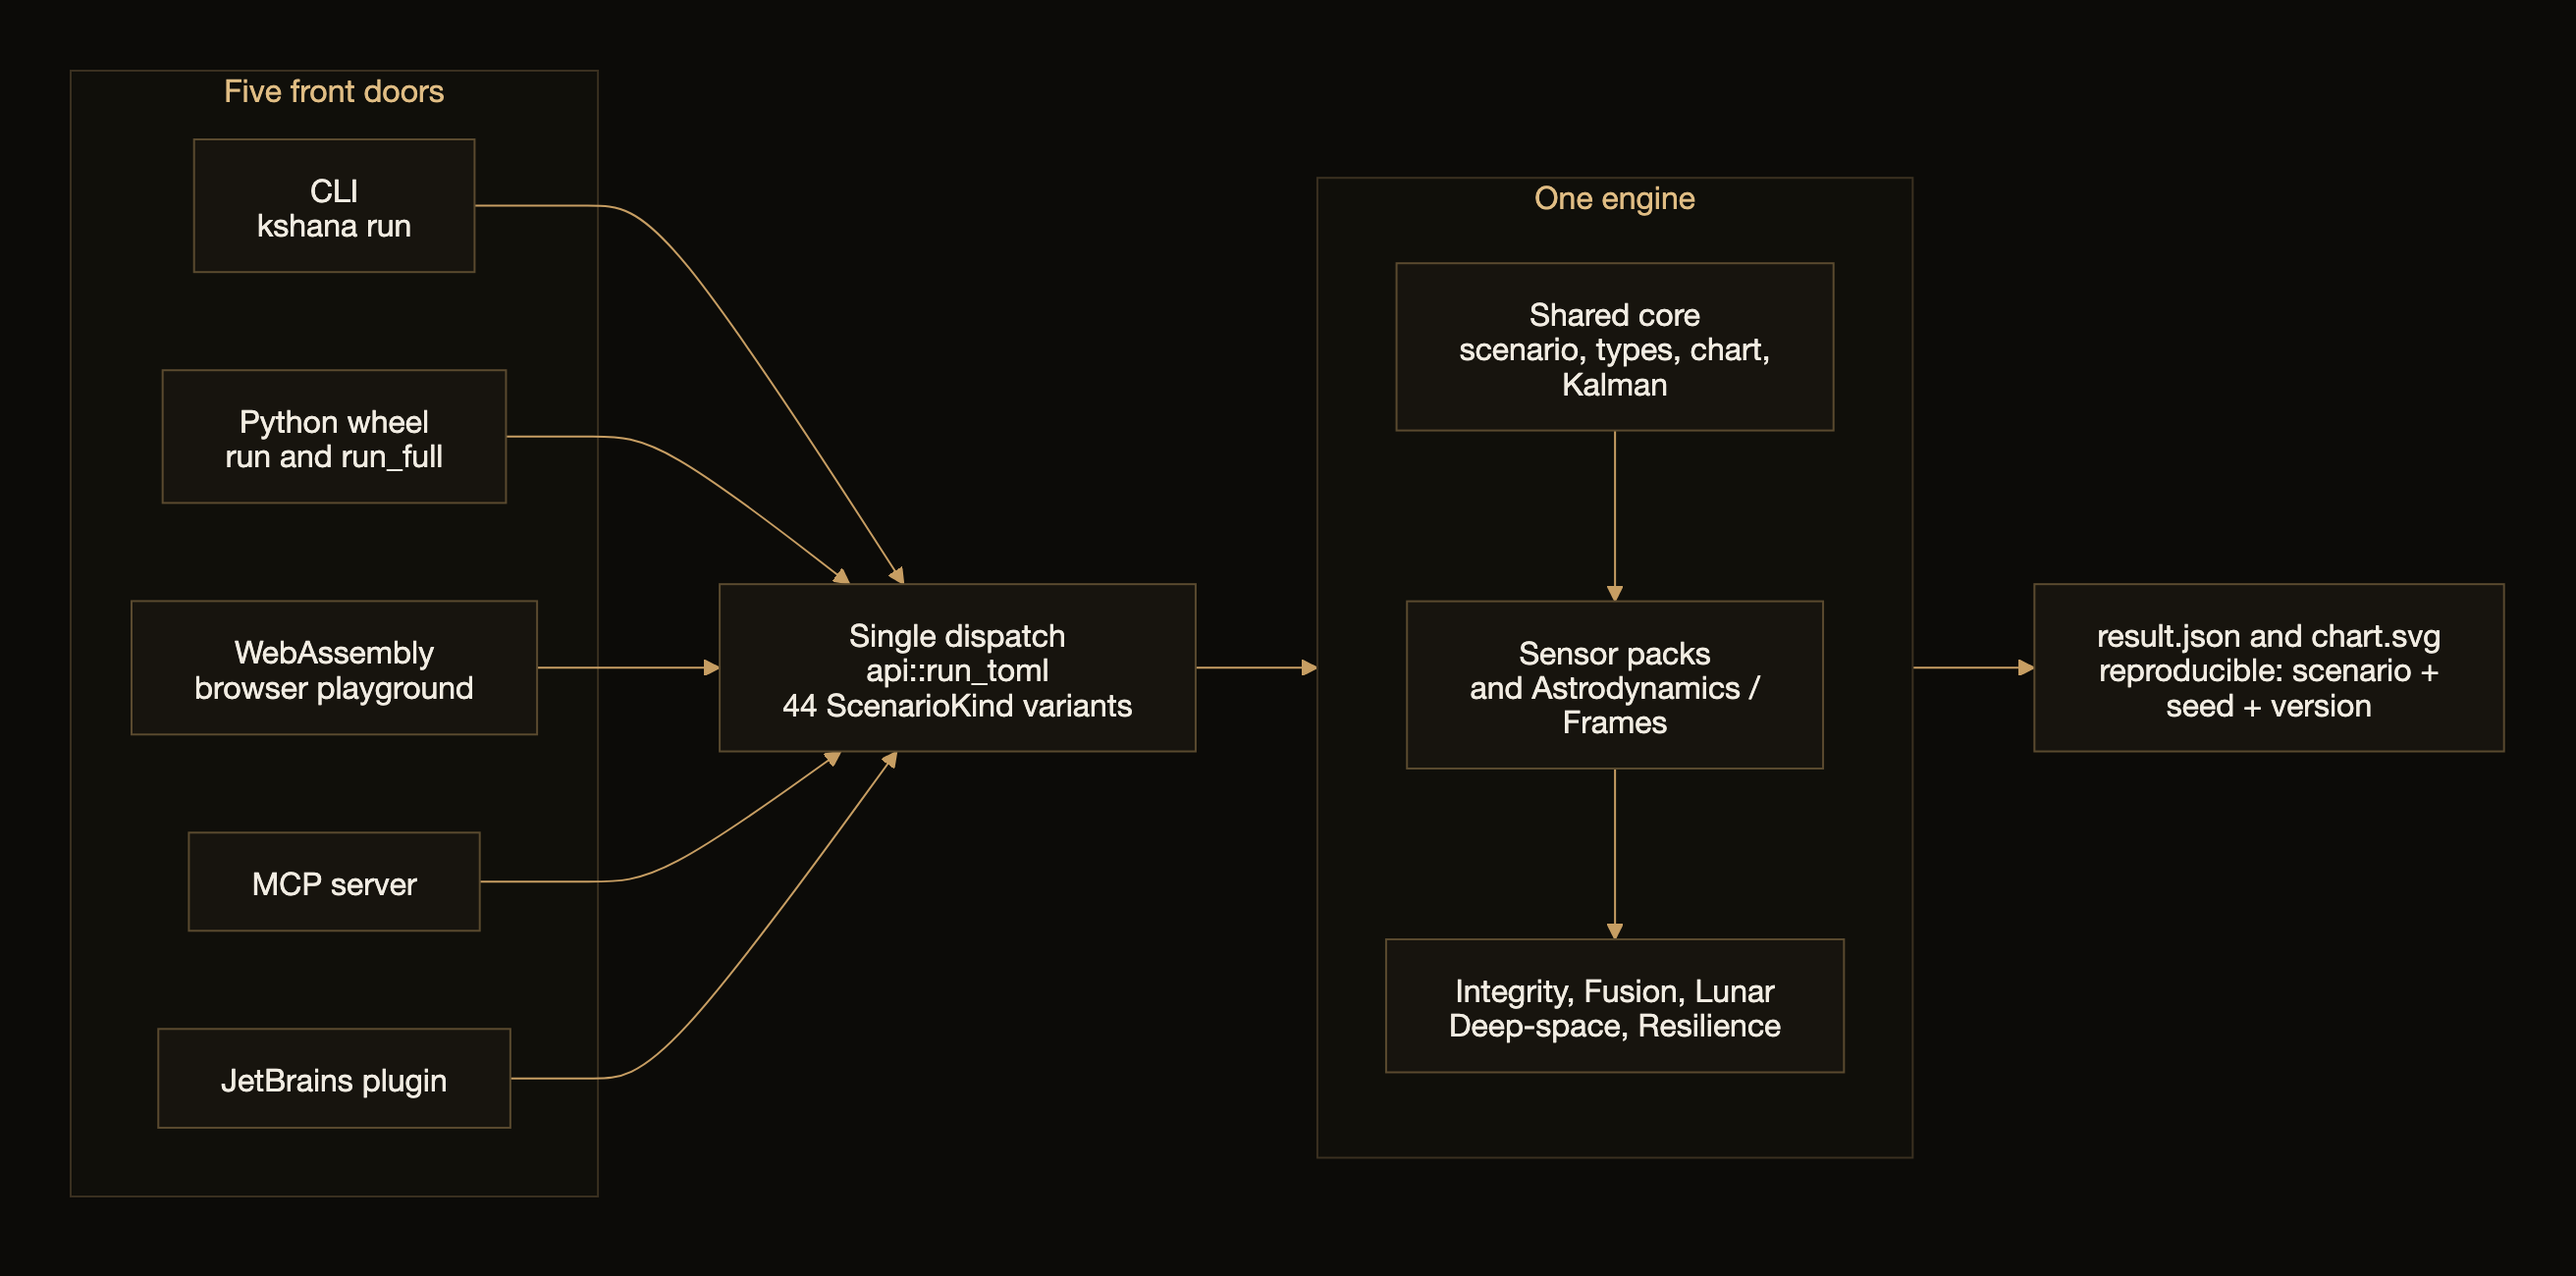
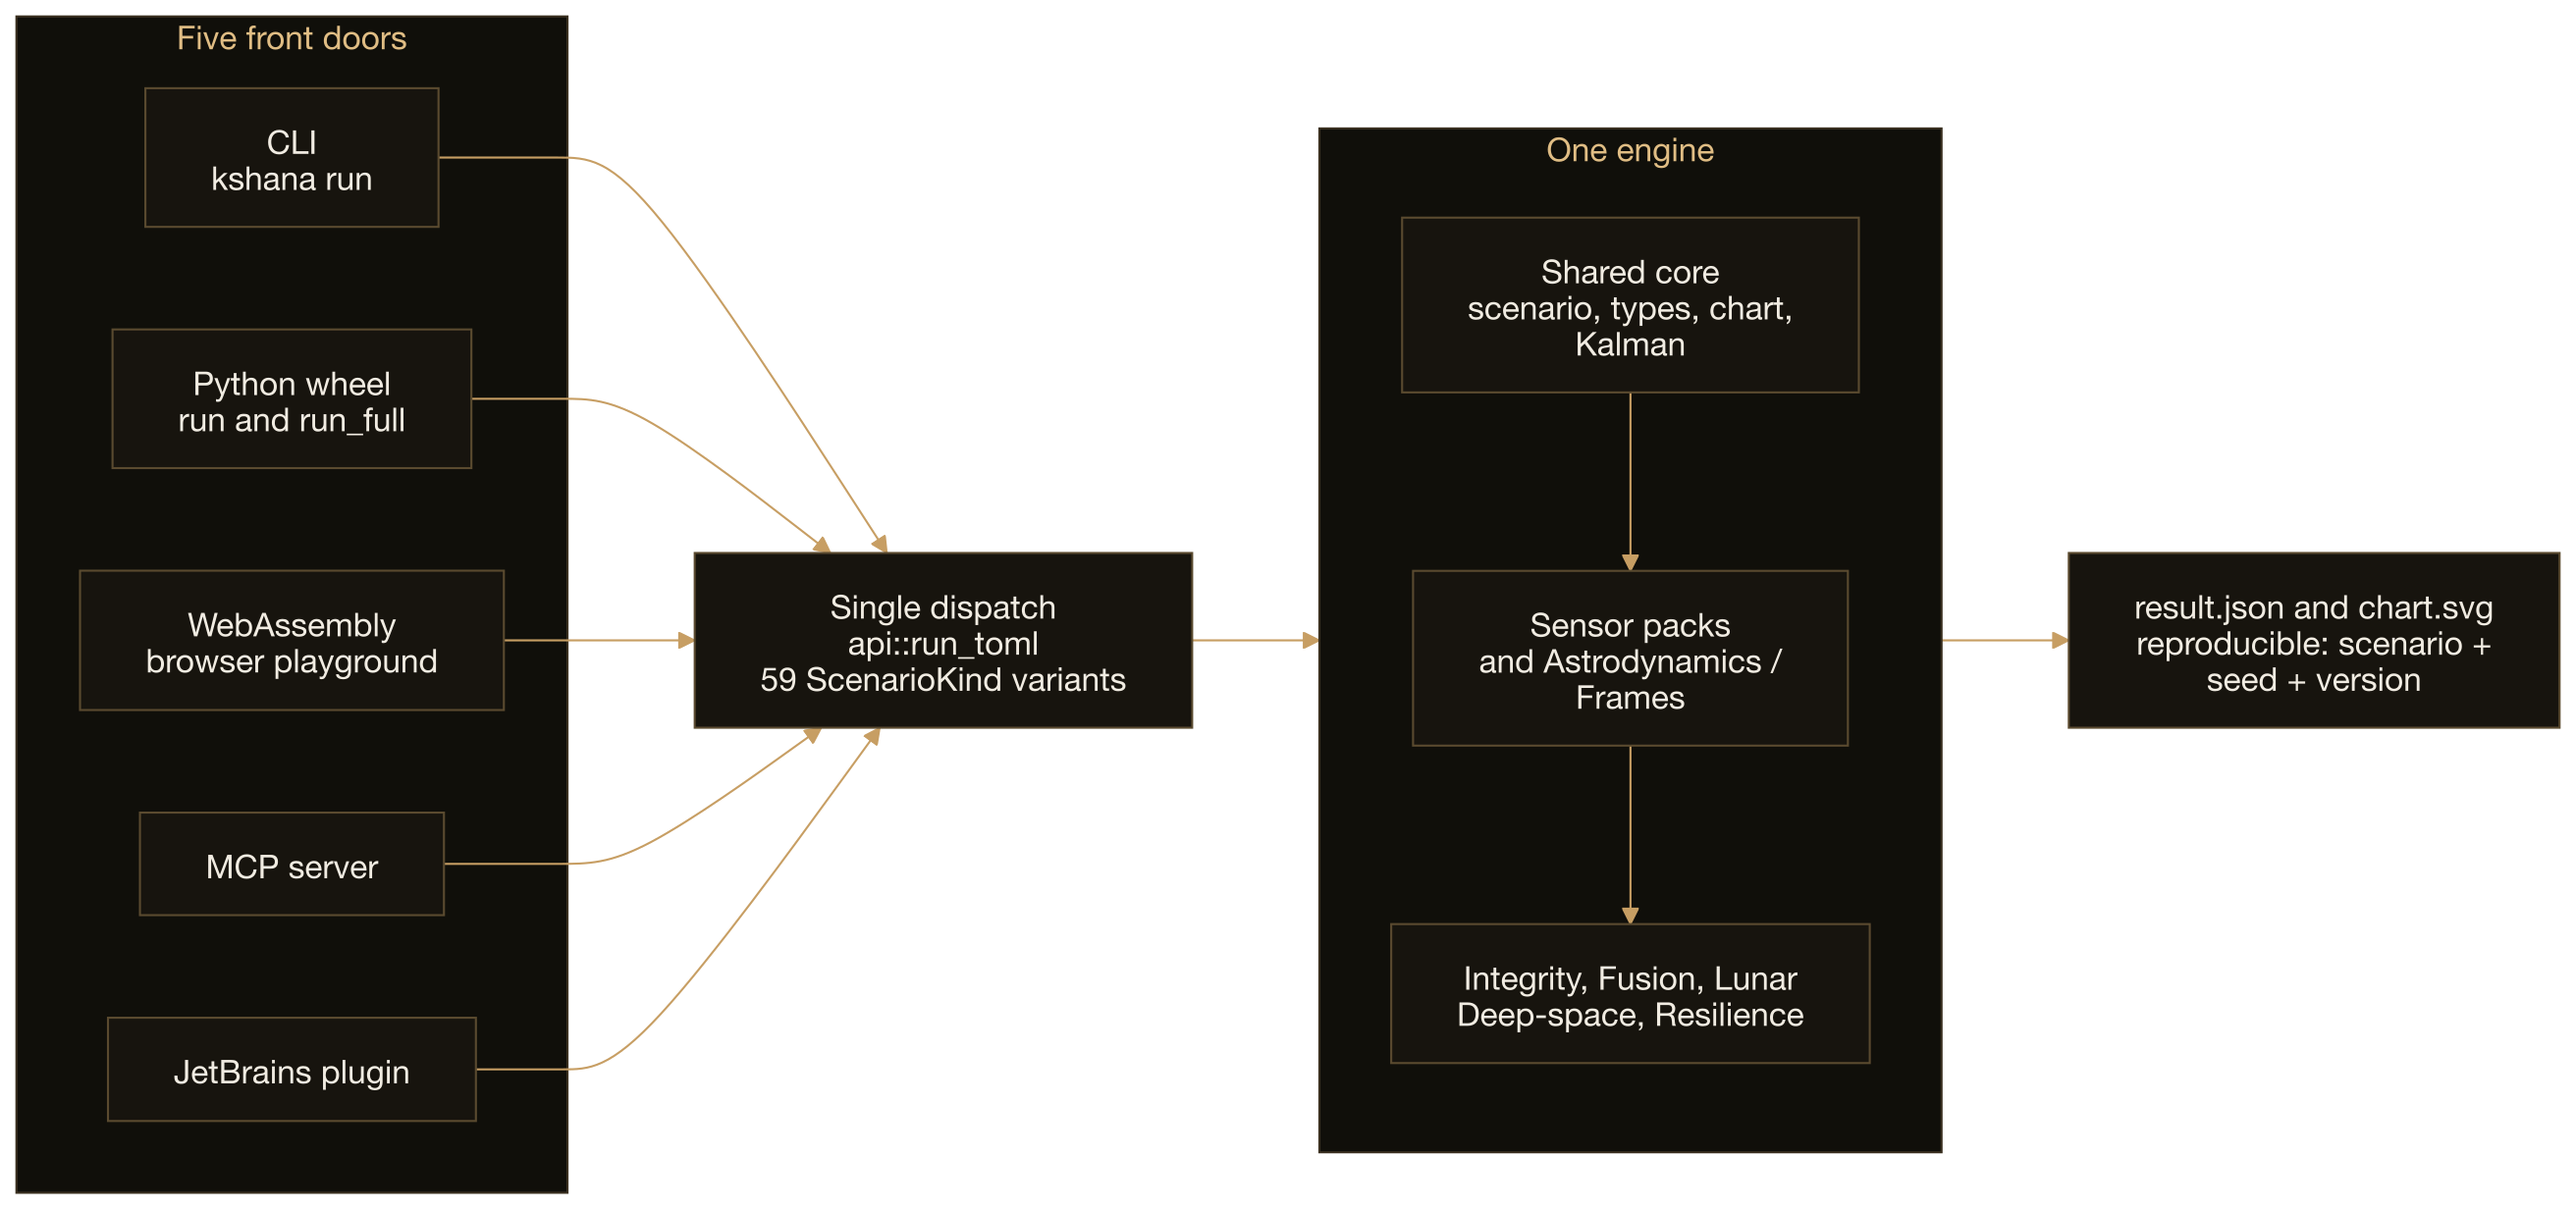
fix(docs): the hero diagram's scenario count, and the alt-text no guard listed
The system-overview diagram at the top of README.md states "44 ScenarioKind
variants". Its own alt text, forty lines away in the same file, says 50. The
dispatcher exposes 59. Three numbers for one quantity, while all three guarded
sites read 59 and stayed green for two months.

The guard said so itself and nobody read it back: scenario_count_doc_sync.rs
opens "The README states the number of dispatchable scenario kinds in three
places. Two of them are digit-form" -- it pinned those two plus ARCHITECTURE.md
and left the third, which was the alt attribute.

Two more of the same shape turned up in the same sweep:

  - the oracle-kind figure's alt reads "56 of 56 ExternalDataset" while the
    figure beside it, which is regenerated from the matrix, draws 59 of 59. The
    picture moved; its description did not.
  - mcp/kshana-mcp/README.md, which ships to users, reads 50.

An alt attribute is a published surface. A screen reader reads it aloud, an
indexer indexes it, and it is the only text a reader gets when the image does
not load. All three are pinned now, alongside the prose.

A count inside a rendered image cannot be pinned at all, which is the part that
needed a mechanism rather than an edit. Three layers:

  - the diagram's Mermaid source (docs/diagrams/system-overview.mmd) and the
    rendered SVG's text content are both asserted against list_scenario_kinds();
  - docs/assets/diagrams/rendered-from.json binds each PNG to the SHA-256 of the
[…]

diff --git a/tests/scenario_count_doc_sync.rs b/tests/scenario_count_doc_sync.rs
@@ -45,3 +45,173 @@ fn readme_dispatch_counts_match_the_api() {
          Update the `ScenarioKind::classify … N kinds` node in the §4 dispatch diagram."
     );
 }
+
+/// The count above was pinned in three places. This test exists because that was not all
+/// of them, and the docstring at the top of this file said so out loud — "the README
+/// states the number ... in three places. **Two** of them are digit-form" — and then
+/// pinned only those two plus the architecture doc. The unpinned places had drifted:
+///
+/// | surface | said | truth |
+/// |---|---|---|
+/// | `docs/diagrams/system-overview.mmd` (the hero diagram's SOURCE) | 44 | 59 |
+/// | `docs/assets/diagrams/system-overview.svg` / `.png` (the rendered hero image) | 44 | 59 |
+/// | `README.md` hero-image `alt` text | 50 | 59 |
+/// | `mcp/kshana-mcp/README.md` (the published MCP-server README) | 50 | 59 |
+///
+/// Three different numbers for one quantity, across two artefacts and two alt-texts,
+/// while every guarded site stayed green. Two lessons are encoded here. First, an `alt`
+/// attribute is a published surface — a screen reader reads it aloud, an indexer indexes
+/// it, and it is the only text a reader gets when the image does not load — so it is
+/// pinned exactly like prose. Second, a count inside a *rendered image* cannot be read by
+/// a test at all; the defence is to pin the image's text SOURCE (the `.mmd`) and the
+/// rendered SVG's text content, and to bind the PNG to the SVG it came from (see
+/// `each_rendered_png_was_rendered_from_the_committed_svg`).
+#[test]
+fn every_scenario_count_surface_matches_the_dispatcher() {
+    let n = kshana::api::list_scenario_kinds().len();
+
+    let readme = include_str!("../README.md");
+    let mmd = include_str!("../docs/diagrams/system-overview.mmd");
+    let svg = include_str!("../docs/assets/diagrams/system-overview.svg");
+    let mcp = include_str!("../mcp/kshana-mcp/README.md");
+    let scenarios = include_str!("../docs/SCENARIOS.md");
+
+    // The SVG splits a label across one <tspan> per word, so the count and the words after
+    // it are in different elements. Strip the markup and search the concatenated text.
+    let svg_text = strip_xml_tags(svg);
+
+    let checks: Vec<(&str, &str, String)> = vec![
+        (
+            "README.md (hero-image alt text)",
+            readme,
+            format!("api::run_toml dispatch over {n} scenario kinds"),
+        ),
+        (
+            "docs/diagrams/system-overview.mmd (the diagram's source)",
+            mmd,
+            format!("{n} ScenarioKind variants"),
+        ),
+        (
+            "docs/assets/diagrams/system-overview.svg (rendered hero diagram)",
+            &svg_text,
+            format!("{n} ScenarioKind variants"),
+        ),
+        (
+            "mcp/kshana-mcp/README.md (published MCP server README)",
+            mcp,
+            format!("The {n} built-in scenario kinds with descriptions"),
+        ),
+        (
+            "docs/SCENARIOS.md (generated reference header)",
+            scenarios,
+            format!("The {n} built-in scenario kinds that"),
+        ),
+    ];
+
+    let stale: Vec<String> = checks
+        .iter()
+        .filter(|(_, body, expected)| !body.contains(expected.as_str()))
+        .map(|(name, _, expected)| format!("  {name}: expected substring {expected:?}"))
+        .collect();
+
+    assert!(
+        stale.is_empty(),
+        "Scenario-kind counts are out of sync with api::list_scenario_kinds() (= {n}). \
+         Update each listed site. If the hero diagram is one of them, edit \
+         docs/diagrams/system-overview.mmd and then re-render with \
+         `tools/render-diagram.sh system-overview`, which rewrites the SVG's count, the \
+         PNG, and the render record in one step:\n{}",
+        stale.join("\n")
+    );
+}
+
+/// A PNG cannot be text-searched, so the count inside the hero diagram is guarded one
+/// step back: the SVG's text is pinned by the test above, and this test binds the PNG to
+/// the exact SVG bytes it was rendered from. Editing an SVG and forgetting to re-render
+/// its PNG — the failure that let the README's hero image show `44` while its own SVG
+/// source was being corrected — is then a build failure rather than a silent mismatch
+/// between the picture and the page around it.
+///
+/// `tools/render-diagram.sh` re-renders a PNG and updates the record together, so the two
+/// cannot drift apart by hand.
+#[test]
+fn each_rendered_png_was_rendered_from_the_committed_svg() {
+    use std::path::Path;
+
+    let root = Path::new(env!("CARGO_MANIFEST_DIR"));
+    let record_path = root.join("docs/assets/diagrams/rendered-from.json");
+    let record: serde_json::Value =
+        serde_json::from_str(&std::fs::read_to_string(&record_path).expect("render record"))
+            .expect("render record is valid JSON");
+
+    let entries = record["rendered"]
+        .as_object()
+        .expect("`rendered` object in the render record");
+    assert!(
+        !entries.is_empty(),
+        "the render record lists no diagrams; it must cover every PNG in docs/assets/diagrams"
+    );
+
+    // Every PNG in the directory must be covered — a new diagram cannot opt out by
+    // simply not being listed.
+    let mut on_disk: Vec<String> = std::fs::read_dir(root.join("docs/assets/diagrams"))
+        .expect("diagrams dir")
+        .filter_map(|e| e.ok())
+        .map(|e| e.file_name().to_string_lossy().into_owned())
+        .filter(|f| f.ends_with(".png"))
+        .collect();
+    on_disk.sort();
+    let missing: Vec<&String> = on_disk.iter().filter(|f| !entries.contains_key(*f)).collect();
+    assert!(
+        missing.is_empty(),
+        "these rendered PNGs are not covered by docs/assets/diagrams/rendered-from.json, \
+         so nothing checks they match their SVG: {missing:?}. Render them with \
+         tools/render-diagram.sh, which adds the record entry."
+    );
+
+    let mut stale = Vec::new();
+    for (png, meta) in entries {
+        let svg_name = meta["svg"].as_str().expect("svg name");
+        let recorded = meta["svg_sha256"].as_str().expect("svg_sha256");
+        let svg_path = root.join("docs/assets/diagrams").join(svg_name);
+        let bytes = std::fs::read(&svg_path).unwrap_or_else(|e| panic!("{svg_name}: {e}"));
+        let actual = sha256_hex(&bytes);
+        if actual != recorded {
+            stale.push(format!(
+                "  {png}: rendered from {svg_name}@{recorded:.12}…, but that SVG is now \
+                 {actual:.12}… — the PNG is stale"
+            ));
+        }
+    }
+
+    assert!(
+        stale.is_empty(),
+        "A diagram SVG changed without its PNG being re-rendered, so the image the README \
+         shows no longer matches its own source. Re-render with \
+         `tools/render-diagram.sh <name>`:\n{}",
+        stale.join("\n")
+    );
+}
+
+/// Concatenated element text with all markup removed — enough to search a rendered SVG
+/// for a label that the renderer split across sibling `<tspan>`s.
+fn strip_xml_tags(s: &str) -> String {
+    let mut out = String::with_capacity(s.len());
+    let mut in_tag = false;
+    for c in s.chars() {
+        match c {
+            '<' => in_tag = true,
+            '>' => in_tag = false,
+            _ if !in_tag => out.push(c),
+            _ => {}
+        }
+    }
+    out
+}
+
+fn sha256_hex(bytes: &[u8]) -> String {
+    use sha2::{Digest, Sha256};
+    let mut h = Sha256::new();
+    h.update(bytes);
+    h.finalize().iter().map(|b| format!("{b:02x}")).collect()
+}

diff --git a/tests/readme_validation_counts_doc_sync.rs b/tests/readme_validation_counts_doc_sync.rs
@@ -122,6 +122,14 @@ fn surface_readme_validation_counts_match_the_matrix() {
 /// pinned, so any one of them could silently drift out of step with the matrix while the
 /// guarded badges stayed correct. Pin every remaining count-bearing string so a row
 /// change that misses one is a build failure, not a published overclaim.
+///
+/// A later audit found this test had not in fact pinned *every* such string: the
+/// oracle-kind stacked-bar figure's alt-text states the Validated column's
+/// ExternalDataset count ("the Validated column is N of N ExternalDataset by
+/// construction"), and it still read 56 of 56 when the matrix held 59 — the figure
+/// itself, which is regenerated, had moved on without its alt. An alt attribute is a
+/// published surface (screen readers and indexers read it, and it is the only text a
+/// reader gets when the image fails to load), so it is pinned here with the rest.
 #[test]
 fn every_public_validation_count_string_matches_the_matrix() {
     let m = verification_matrix();
@@ -155,6 +163,10 @@ fn every_public_validation_count_string_matches_the_matrix() {
             format!("{v} Validated · {md} Modelled · {p} Partner")),
         ("README.md (provenance-diagram alt)", readme,
             format!("Live counts: {v} Validated, {md} Modelled, {p} Partner, {t} total")),
+        // The oracle-kind stacked bar is regenerated from the matrix, so its bars are
+        // always current; its alt-text is hand-written and was not.
+        ("README.md (oracle-kind figure alt)", readme,
+            format!("the Validated column is {v} of {v} ExternalDataset by construction")),
     ];
     for (name, body) in [
         ("README.crates.md", crates),

diff --git a/README.md b/README.md
@@ -53,7 +53,7 @@ citable table in [`docs/PROVENANCE.md`](docs/PROVENANCE.md).
 <p align="center"><em><strong>Validated, not asserted.</strong> &nbsp;666/666 AIAA SGP4 vectors to <strong>4.12&nbsp;mm</strong> · Cowell force model <strong>0.08&nbsp;m</strong> vs Orekit&nbsp;12.2 · Galileo <strong>0.61&nbsp;m</strong> / Swarm-A <strong>0.10&nbsp;m</strong> vs real ESA precise ephemerides · GCRS→ITRS bit-for-bit vs SOFA/ERFA · ML metrics exact vs scikit-learn · <strong>59 of 134</strong> capabilities validated against independent external oracles; 71 honestly labelled Modelled.</em></p>
 
 <p align="center">
-  <img src="docs/assets/diagrams/system-overview.png" alt="Kshana system overview: five front doors (CLI, Python wheel, WebAssembly playground, MCP server, JetBrains plugin) converge on a single api::run_toml dispatch over 50 scenario kinds, through the engine (shared core, sensor packs and astrodynamics, integrity/fusion/lunar/deep-space/resilience), to a reproducible result.json + chart.svg" width="840">
+  <img src="docs/assets/diagrams/system-overview.png" alt="Kshana system overview: five front doors (CLI, Python wheel, WebAssembly playground, MCP server, JetBrains plugin) converge on a single api::run_toml dispatch over 59 scenario kinds, through the engine (shared core, sensor packs and astrodynamics, integrity/fusion/lunar/deep-space/resilience), to a reproducible result.json + chart.svg" width="840">
   <br><sub>One engine, five front doors · <a href="docs/assets/diagrams/system-overview.svg">SVG</a></sub>
 </p>
 
@@ -1034,7 +1034,7 @@ kshana/
 </p>
 
 <p align="center">
-  <img src="docs/assets/figures/oracle-kind-stacked.png" alt="How each claim is backed: the Validated column is 56 of 56 ExternalDataset by construction (CI-enforced); Modelled rows are honestly tagged InternalConsistency, ReferenceImpl, or ExternalDataset; Partner rows have no Kshana oracle" width="62%">
+  <img src="docs/assets/figures/oracle-kind-stacked.png" alt="How each claim is backed: the Validated column is 59 of 59 ExternalDataset by construction (CI-enforced); Modelled rows are honestly tagged InternalConsistency, ReferenceImpl, or ExternalDataset; Partner rows have no Kshana oracle" width="62%">
   <br>
   <img src="docs/assets/figures/sgp4-regime-bars.png" alt="SGP4/SDP4 worst-case position error vs the AIAA 2006-6753 reference by regime, log scale: every regime is far below the AIAA tolerance, worst case 4.12 mm in the deep-space non-resonant regime" width="96%">
   <br><sub>Top: every Validated row is backed by an external dataset, by construction. Bottom: SGP4 matches the official reference in every regime (worst 4.12 mm). <a href="docs/assets/figures/oracle-kind-stacked.svg">SVG</a> · <a href="docs/assets/figures/sgp4-regime-bars.svg">SVG</a></sub>

diff --git a/mcp/kshana-mcp/README.md b/mcp/kshana-mcp/README.md
@@ -15,7 +15,7 @@ merit with provenance.
 | Tool | What it does |
 |------|--------------|
 | `run_scenario` | Run a scenario from a TOML definition; returns the summary + full result JSON (FoMs, curves). Optional `include_chart` returns the SVG. |
-| `list_scenario_kinds` | The 50 built-in scenario kinds with descriptions + required/optional fields — so the agent can construct a valid scenario. |
+| `list_scenario_kinds` | The 59 built-in scenario kinds with descriptions + required/optional fields — so the agent can construct a valid scenario. |
 | `validate_scenario` | Pre-flight check: parse the TOML and detect its kind, without running. |
 | `export_sp3` | Export an `orbit` scenario's constellation as SP3-c precise ephemeris. |
 | `export_omm` | Export an `orbit` scenario's elements as a CCSDS 502.0-B-2 OMM catalogue. |
